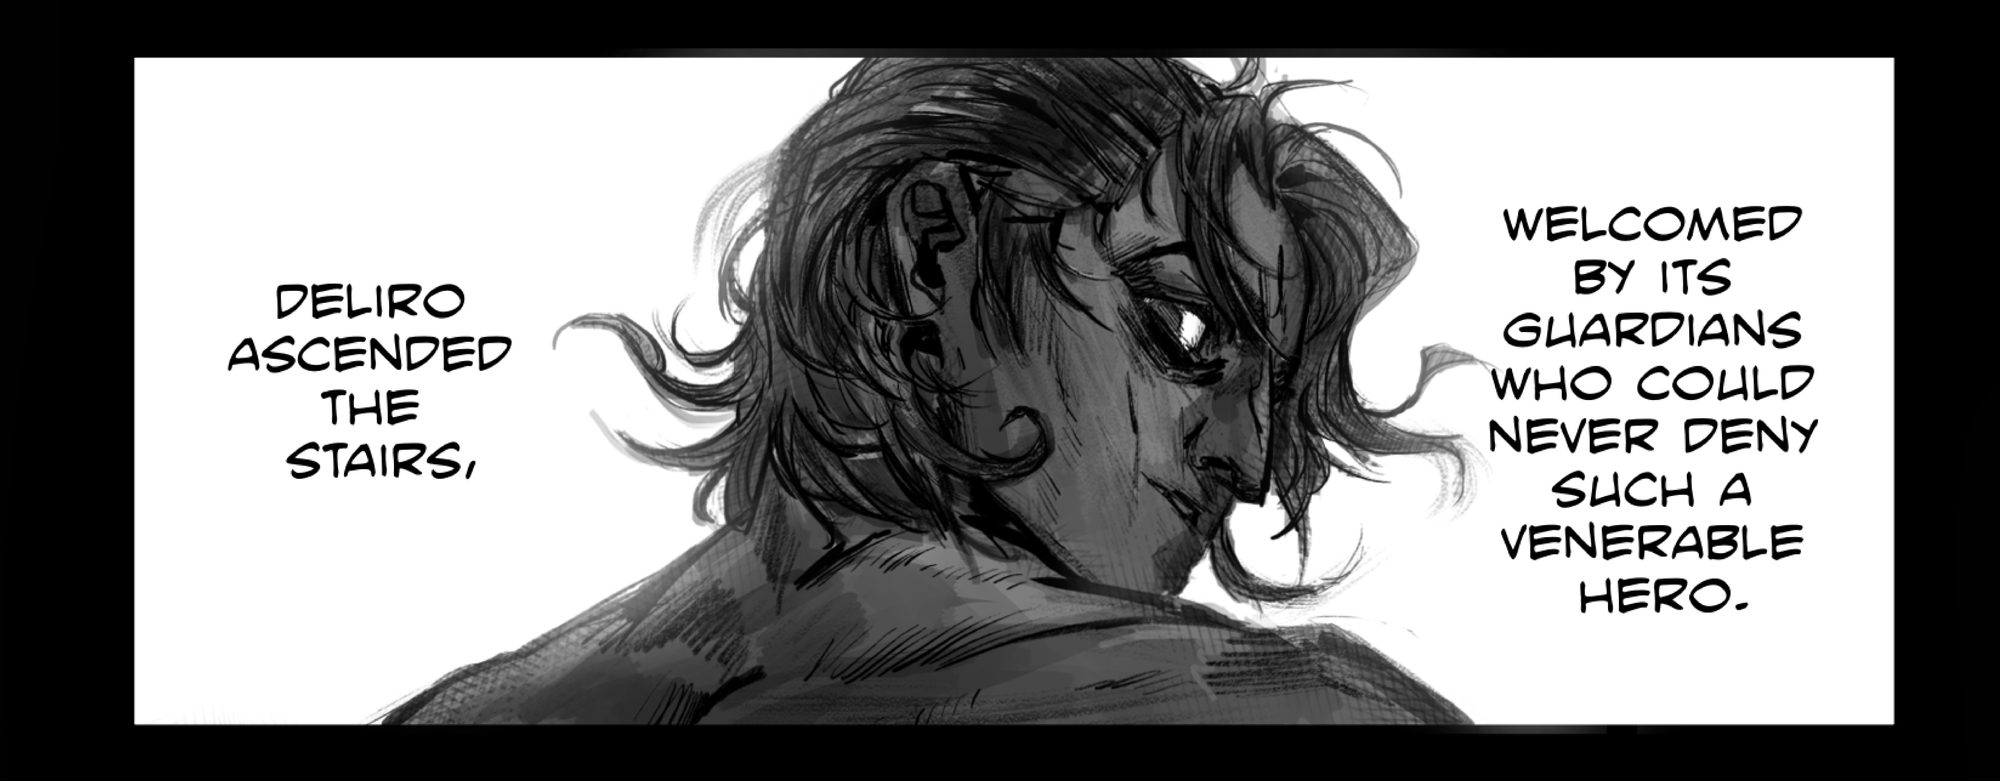
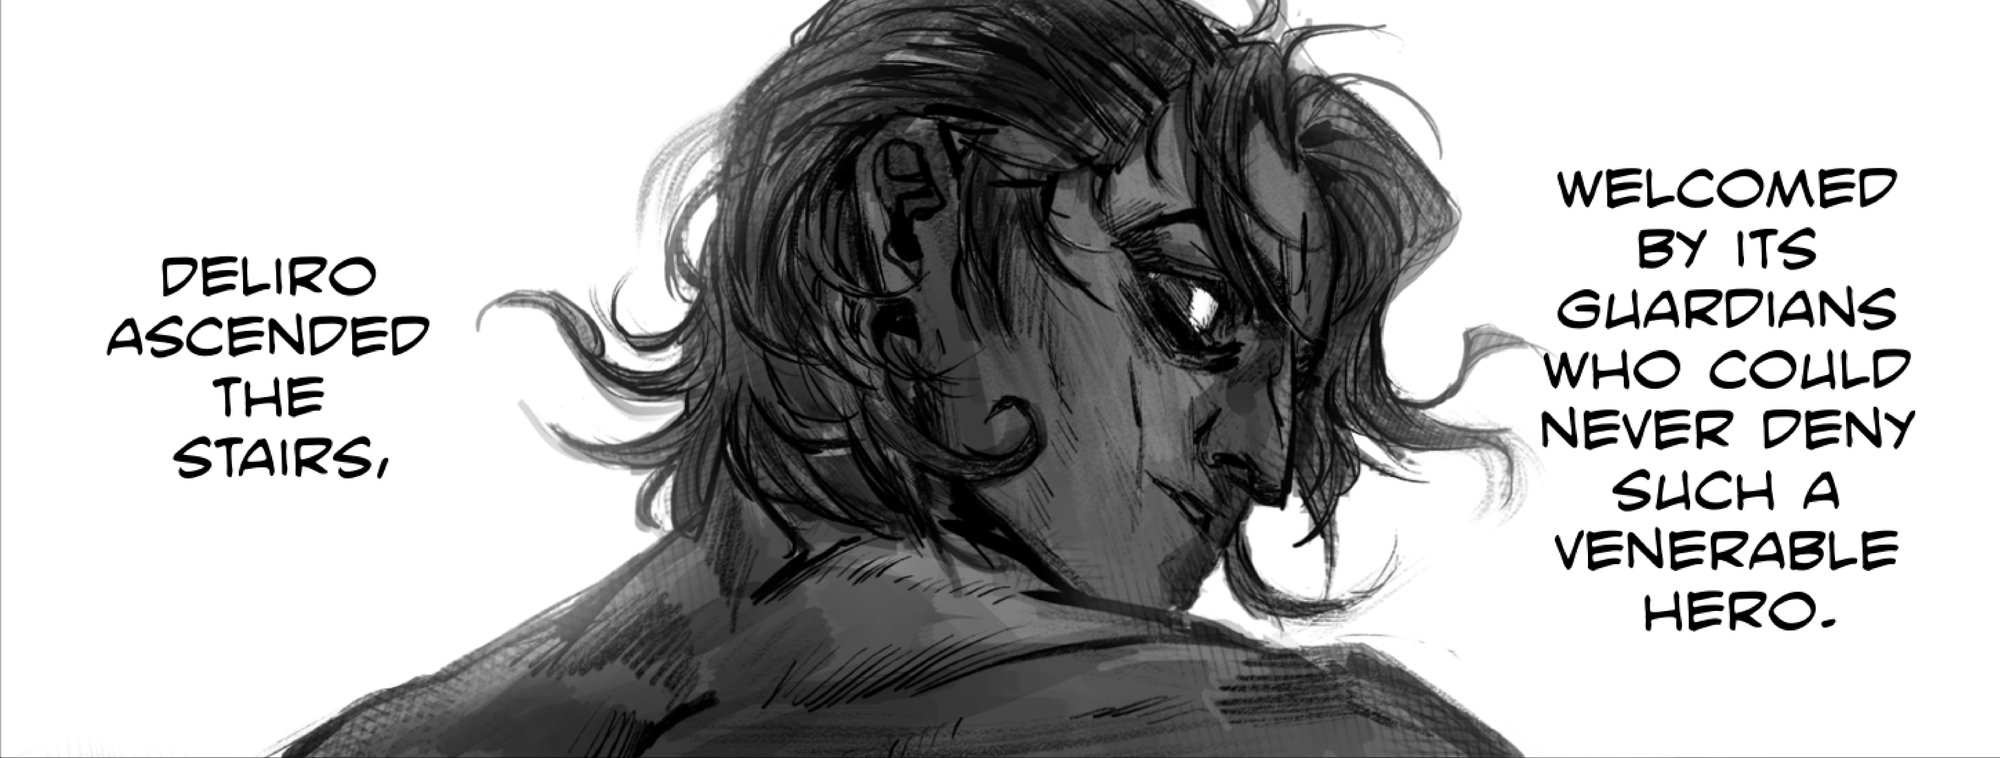
Make Deliro panel full-bleed, trim baked-in black border
- Re-exported 0012.png with sharp trim to remove the black matte
  framing the artwork (2000x781 -> 2000x758, clean white edges)
- Added .panel-full modifier: breaks out of the 760px box and
  section padding to span the full viewport edge to edge
- Added body overflow-x:hidden to guard against 100vw scrollbar

diff --git a/styles.css b/styles.css
@@ -27,6 +27,7 @@ body {
   -webkit-font-smoothing: antialiased;
   -moz-osx-font-smoothing: grayscale;
   font-size: 17px;
+  overflow-x: hidden;
 }
 
 a { color: inherit; text-decoration: none; }
@@ -208,8 +209,23 @@ em { font-style: italic; }
 .section-dark .panel { background: #131313; }
 .section-dark .panel-bare { background: transparent; }
 .section-dark .panel figcaption { background: transparent; color: var(--muted-dark); }
+/* Full-bleed panel: breaks out of the 760px box + section padding,
+   spans the entire viewport edge to edge */
+.panel-full {
+  max-width: none;
+  width: 100vw;
+  margin-left: calc(50% - 50vw);
+  margin-right: calc(50% - 50vw);
+  margin-top: 72px;
+  margin-bottom: 72px;
+  border-radius: 0;
+  background: transparent;
+  overflow: hidden;
+}
+.panel-full img { width: 100%; display: block; }
 @media (max-width: 800px) {
   .panel { margin: 36px auto; border-radius: 10px; }
+  .panel-full { margin-top: 44px; margin-bottom: 44px; border-radius: 0; }
 }
 .hero-cover img {
   display: block;

diff --git a/index.html b/index.html
@@ -143,7 +143,7 @@
         </div>
       </div>
 
-      <figure class="panel panel-bare">
+      <figure class="panel panel-bare panel-full">
         <img src="deliro.jpg" alt="Deliro ascended the stairs, welcomed by its guardians who could never deny such a venerable hero — a panel from No Islands: Thief of Fortune." />
       </figure>
     </div>
